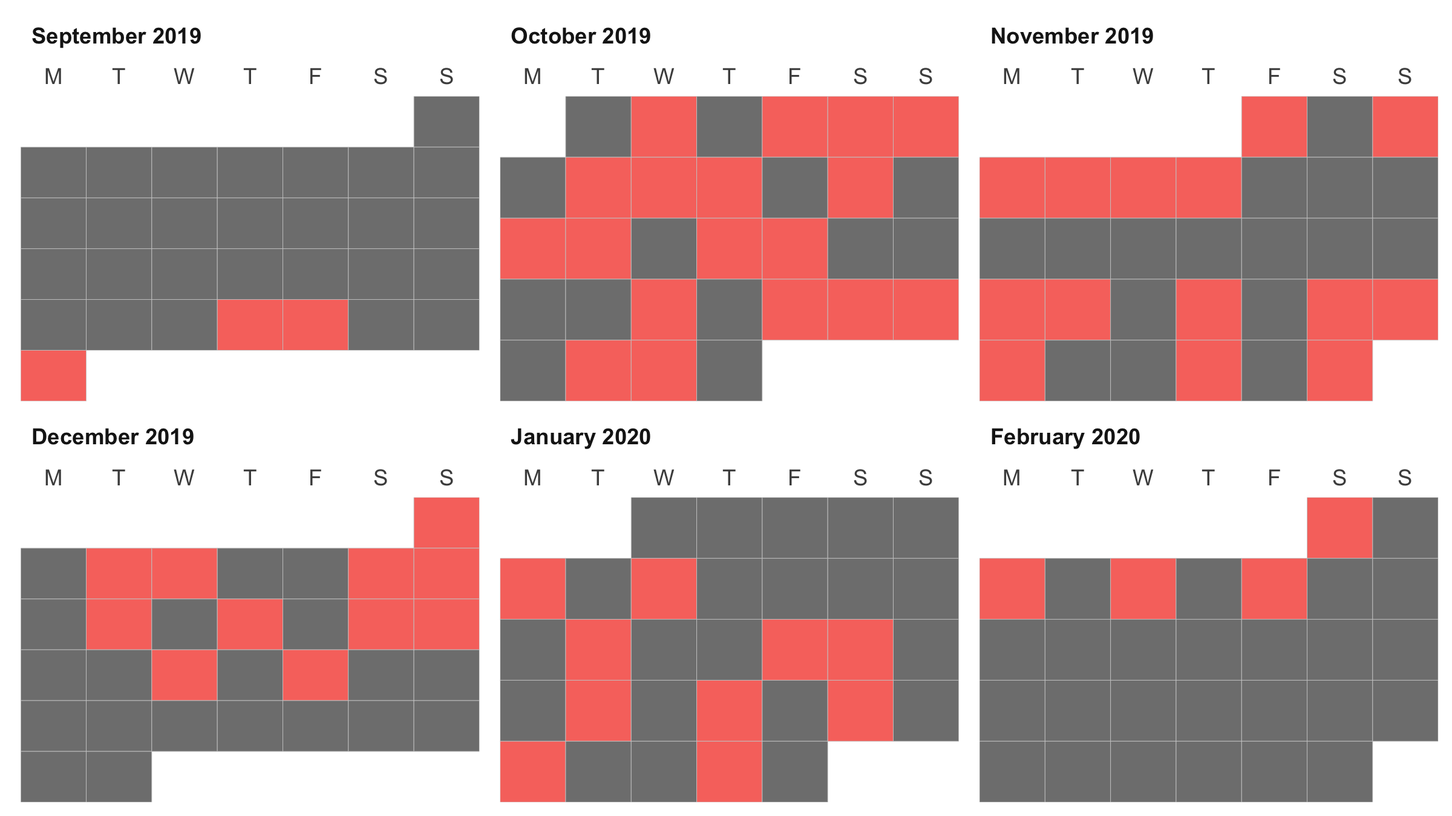
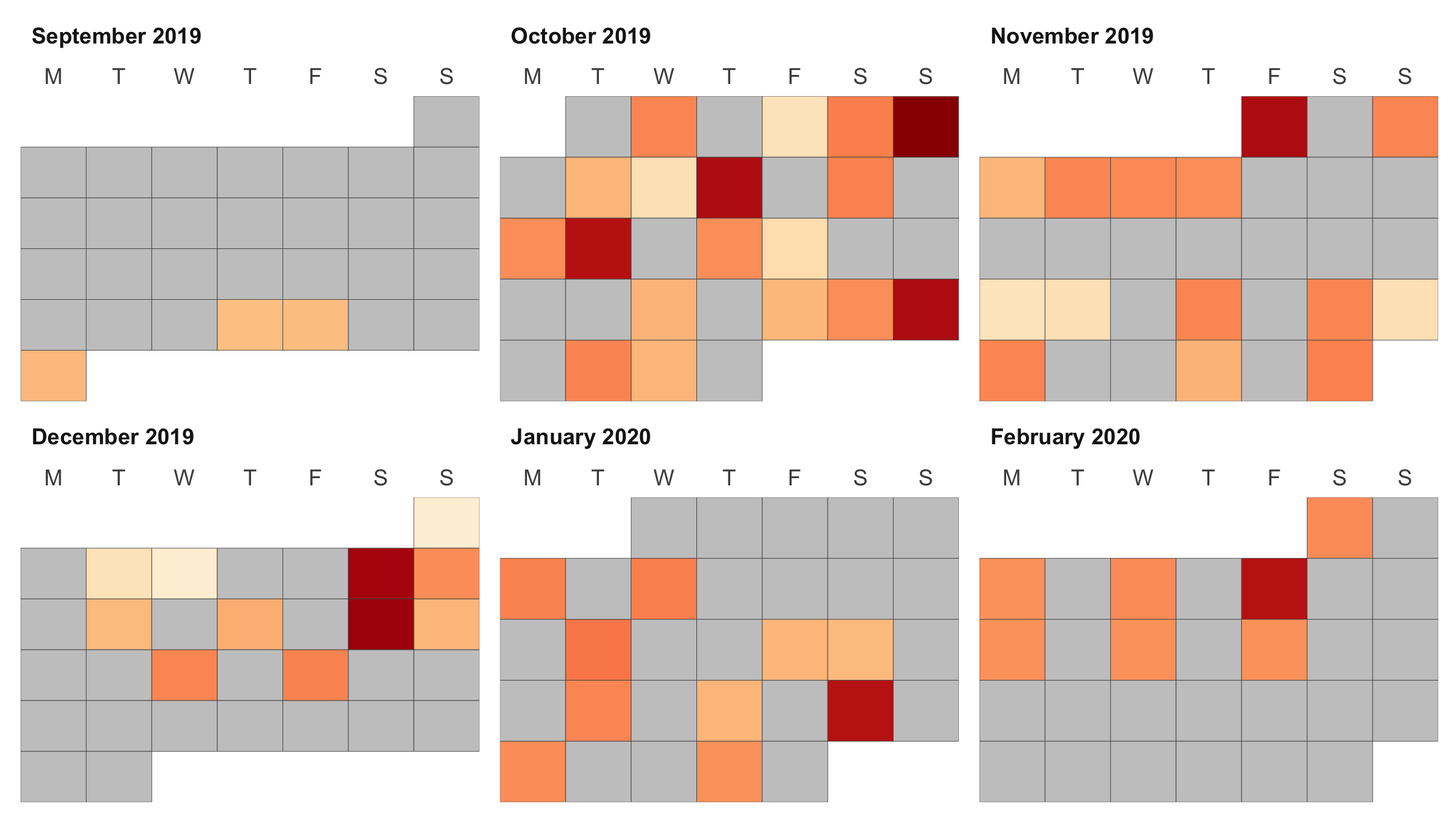
Just do it.

diff --git a/projects/health_data_from_apple_health/index.html b/projects/health_data_from_apple_health/index.html
@@ -81,19 +81,24 @@
           
           <body>
             <div class="article-post">
-              <p>The goal is to visualize health data recorded by a Xiaomi Mi Band (in this case model 4) after syncing it to the Apple Health app and exporting it from there.
-You will receive all the data in a file called <code>export.zip</code>, which, when decompressed, creates two files:</p>
+              <p>The goal is to visualize several types of health data, e.g. recorded by a Xiaomi Mi Band (in this case model 4).</p>
+<h2 id="data-sources">Data sources</h2>
+<p>I collect the following data:</p>
 <ul>
-<li><code>export_cda.xml</code></li>
-<li><code>export.xml</code></li>
+<li>Heart rate (once per minute), steps, and sleep data are collected by a Xiaomi Mi Band 4. The data is synched to the Mi Fit app and from the transferred to and exported from the Apple Health app.</li>
+<li>Workout sessions are recorded by Streaks Workout. The data can be exported to a <code>.csv</code> file from Streaks Workout app itself.</li>
+<li>Running sessions are recorded by Strava. Data can be downloaded from the Strava website as a <code>.gpx</code> file.</li>
 </ul>
 <h2 id="preparation">Preparation</h2>
-<p>Depending on the amount of data that is stored in Apple Health, these files can become quite large.</p>
+<h3 id="load-packages">Load packages</h3>
 <div class="highlight"><pre style="background-color:#fff;-moz-tab-size:2;-o-tab-size:2;tab-size:2"><code class="language-r" data-lang="r"><span style="color:#900;font-weight:bold">library</span>(tidyverse)
 <span style="color:#900;font-weight:bold">library</span>(lubridate)
 <span style="color:#900;font-weight:bold">library</span>(XML)
 <span style="color:#900;font-weight:bold">library</span>(viridis)
-</code></pre></div><p>The data we want to import is stored in the <code>export.xml</code> file, which we will load using the <code>XML::xmlParse()</code> function.
+</code></pre></div><h3 id="load-data">Load data</h3>
+<p>As mentioned before, heart rate, steps and sleep data are synced from the Mi Fi app to Apple Health and from there we export it.
+Depending on the amount of data that is stored in Apple Health, these files can become quite large.
+The data we want to import is stored in the <code>export.xml</code> file, which we will load using the <code>XML::xmlParse()</code> function.
 Then, we transform it into a tibble using the <code>XML::xmlAttrsToDataFrame()</code> function.</p>
 <div class="highlight"><pre style="background-color:#fff;-moz-tab-size:2;-o-tab-size:2;tab-size:2"><code class="language-r" data-lang="r">xml <span style="color:#000;font-weight:bold">&lt;-</span> XML<span style="color:#000;font-weight:bold">::</span><span style="color:#900;font-weight:bold">xmlParse</span>(<span style="color:#d14">&#39;</span><span style="color:#d14">export.xml&#39;</span>)
 data <span style="color:#000;font-weight:bold">&lt;-</span> XML<span style="color:#000;font-weight:bold">:::</span><span style="color:#900;font-weight:bold">xmlAttrsToDataFrame</span>(xml[<span style="color:#d14">&#39;</span><span style="color:#d14">//Record&#39;</span>]) <span style="color:#000;font-weight:bold">%&gt;%</span> <span style="color:#900;font-weight:bold">as_tibble</span>()
@@ -106,7 +111,8 @@ data <span style="color:#000;font-weight:bold">&lt;-</span> XML<span style="colo
     date_and_day <span style="color:#000;font-weight:bold">=</span> <span style="color:#900;font-weight:bold">paste0</span>(date, <span style="color:#d14">&#39;</span><span style="color:#d14"> (&#39;</span>, dayofweek, <span style="color:#d14">&#39;</span><span style="color:#d14">)&#39;</span>)
   )
 </code></pre></div><h2 id="heart-rate">Heart rate</h2>
-<p>My heart rate is recorded once a minute.</p>
+<p>Ideally, my heart rate is recorded once a minute.
+However, there are some missing values because sometimes the band is placed in a way that it can't measure the heart rate.</p>
 <div class="highlight"><pre style="background-color:#fff;-moz-tab-size:2;-o-tab-size:2;tab-size:2"><code class="language-r" data-lang="r">data_heart_rate <span style="color:#000;font-weight:bold">&lt;-</span> data <span style="color:#000;font-weight:bold">%&gt;%</span>
   dplyr<span style="color:#000;font-weight:bold">::</span><span style="color:#900;font-weight:bold">filter</span>(
     type <span style="color:#000;font-weight:bold">==</span> <span style="color:#d14">&#39;</span><span style="color:#d14">HKQuantityTypeIdentifierHeartRate&#39;</span>,
@@ -134,9 +140,6 @@ Workout sessions are marked as grey areas.</p>
     fill <span style="color:#000;font-weight:bold">=</span> <span style="color:#d14">&#34;</span><span style="color:#d14">grey&#34;</span>, alpha <span style="color:#000;font-weight:bold">=</span> <span style="color:#099">0.5</span>
   ) <span style="color:#000;font-weight:bold">+</span>
   <span style="color:#900;font-weight:bold">geom_line</span>(<span style="color:#900;font-weight:bold">aes</span>(x <span style="color:#000;font-weight:bold">=</span> endDate, y <span style="color:#000;font-weight:bold">=</span> value), size <span style="color:#000;font-weight:bold">=</span> <span style="color:#099">0.5</span>, color <span style="color:#000;font-weight:bold">=</span> <span style="color:#d14">&#39;</span><span style="color:#d14">grey&#39;</span>) <span style="color:#000;font-weight:bold">+</span>
-  <span style="color:#900;font-weight:bold">geom_smooth</span>(<span style="color:#900;font-weight:bold">aes</span>(x <span style="color:#000;font-weight:bold">=</span> endDate, y <span style="color:#000;font-weight:bold">=</span> value, color <span style="color:#000;font-weight:bold">=</span> ..y..), method <span style="color:#000;font-weight:bold">=</span> <span style="color:#d14">&#39;</span><span style="color:#d14">gam&#39;</span>, formula <span style="color:#000;font-weight:bold">=</span> y <span style="color:#000;font-weight:bold">~</span> <span style="color:#900;font-weight:bold">s</span>(x, k <span style="color:#000;font-weight:bold">=</span> <span style="color:#099">20</span>), size <span style="color:#000;font-weight:bold">=</span> <span style="color:#099">0.5</span>) <span style="color:#000;font-weight:bold">+</span>
-  <span style="color:#900;font-weight:bold">geom_smooth</span>(<span style="color:#900;font-weight:bold">aes</span>(x <span style="color:#000;font-weight:bold">=</span> endDate, y <span style="color:#000;font-weight:bold">=</span> value, color <span style="color:#000;font-weight:bold">=</span> ..y..), method <span style="color:#000;font-weight:bold">=</span> <span style="color:#d14">&#39;</span><span style="color:#d14">gam&#39;</span>, formula <span style="color:#000;font-weight:bold">=</span> y <span style="color:#000;font-weight:bold">~</span> <span style="color:#900;font-weight:bold">s</span>(x, k <span style="color:#000;font-weight:bold">=</span> <span style="color:#099">50</span>), size <span style="color:#000;font-weight:bold">=</span> <span style="color:#099">0.5</span>) <span style="color:#000;font-weight:bold">+</span>
-  <span style="color:#900;font-weight:bold">geom_smooth</span>(<span style="color:#900;font-weight:bold">aes</span>(x <span style="color:#000;font-weight:bold">=</span> endDate, y <span style="color:#000;font-weight:bold">=</span> value, color <span style="color:#000;font-weight:bold">=</span> ..y..), method <span style="color:#000;font-weight:bold">=</span> <span style="color:#d14">&#39;</span><span style="color:#d14">gam&#39;</span>, formula <span style="color:#000;font-weight:bold">=</span> y <span style="color:#000;font-weight:bold">~</span> <span style="color:#900;font-weight:bold">s</span>(x, k <span style="color:#000;font-weight:bold">=</span> <span style="color:#099">100</span>), size <span style="color:#000;font-weight:bold">=</span> <span style="color:#099">0.5</span>) <span style="color:#000;font-weight:bold">+</span>
   <span style="color:#900;font-weight:bold">geom_point</span>(<span style="color:#900;font-weight:bold">aes</span>(x <span style="color:#000;font-weight:bold">=</span> endDate, y <span style="color:#000;font-weight:bold">=</span> value, color <span style="color:#000;font-weight:bold">=</span> value), size <span style="color:#000;font-weight:bold">=</span> <span style="color:#099">0.5</span>) <span style="color:#000;font-weight:bold">+</span>
   <span style="color:#900;font-weight:bold">scale_color_viridis</span>(option <span style="color:#000;font-weight:bold">=</span> <span style="color:#d14">&#39;</span><span style="color:#d14">magma&#39;</span>, direction <span style="color:#000;font-weight:bold">=</span> <span style="color:#099">-1</span>) <span style="color:#000;font-weight:bold">+</span>
   <span style="color:#900;font-weight:bold">scale_y_continuous</span>(name <span style="color:#000;font-weight:bold">=</span> <span style="color:#d14">&#39;</span><span style="color:#d14">Heart rate [BPM]&#39;</span>, limits <span style="color:#000;font-weight:bold">=</span> <span style="color:#900;font-weight:bold">c</span>(<span style="color:#099">40</span>,<span style="color:#099">160</span>)) <span style="color:#000;font-weight:bold">+</span>
@@ -152,6 +155,39 @@ Workout sessions are marked as grey areas.</p>
 <figure >
   
       <img src="/images/projects/health_data/heart_rate_profile_day.png"  style="width: 100%;" />
+  
+  
+</figure>
+
+
+<p>Some measurements look like outliers.
+We can deal with that by applying a smoothing line with different <code>k</code> parameter to control how sensitive it should be.</p>
+<div class="highlight"><pre style="background-color:#fff;-moz-tab-size:2;-o-tab-size:2;tab-size:2"><code class="language-r" data-lang="r">p <span style="color:#000;font-weight:bold">&lt;-</span> data_heart_rate <span style="color:#000;font-weight:bold">%&gt;%</span>
+  <span style="color:#900;font-weight:bold">filter</span>(date <span style="color:#000;font-weight:bold">%in%</span> <span style="color:#900;font-weight:bold">c</span>(<span style="color:#d14">&#39;</span><span style="color:#d14">2020-01-25&#39;</span>,<span style="color:#d14">&#39;</span><span style="color:#d14">2020-02-07&#39;</span>)) <span style="color:#000;font-weight:bold">%&gt;%</span>
+  <span style="color:#900;font-weight:bold">ggplot</span>() <span style="color:#000;font-weight:bold">+</span>
+  <span style="color:#900;font-weight:bold">geom_rect</span>(
+    data <span style="color:#000;font-weight:bold">=</span> workouts <span style="color:#000;font-weight:bold">%&gt;%</span> <span style="color:#900;font-weight:bold">filter</span>(date <span style="color:#000;font-weight:bold">%in%</span> <span style="color:#900;font-weight:bold">c</span>(<span style="color:#d14">&#39;</span><span style="color:#d14">2020-01-25&#39;</span>,<span style="color:#d14">&#39;</span><span style="color:#d14">2020-02-07&#39;</span>)),
+    <span style="color:#900;font-weight:bold">aes</span>(xmin <span style="color:#000;font-weight:bold">=</span> starting_time, xmax <span style="color:#000;font-weight:bold">=</span> finishing_time, ymin <span style="color:#000;font-weight:bold">=</span> <span style="color:#000;font-weight:bold">-</span><span style="color:#000;font-weight:bold">Inf</span>, ymax <span style="color:#000;font-weight:bold">=</span> <span style="color:#000;font-weight:bold">Inf</span>),
+    fill <span style="color:#000;font-weight:bold">=</span> <span style="color:#d14">&#34;</span><span style="color:#d14">grey&#34;</span>, alpha <span style="color:#000;font-weight:bold">=</span> <span style="color:#099">0.5</span>
+  ) <span style="color:#000;font-weight:bold">+</span>
+  <span style="color:#900;font-weight:bold">geom_point</span>(<span style="color:#900;font-weight:bold">aes</span>(x <span style="color:#000;font-weight:bold">=</span> endDate, y <span style="color:#000;font-weight:bold">=</span> value), color <span style="color:#000;font-weight:bold">=</span> <span style="color:#d14">&#39;</span><span style="color:#d14">grey&#39;</span>, size <span style="color:#000;font-weight:bold">=</span> <span style="color:#099">0.5</span>) <span style="color:#000;font-weight:bold">+</span>
+  <span style="color:#900;font-weight:bold">geom_smooth</span>(<span style="color:#900;font-weight:bold">aes</span>(x <span style="color:#000;font-weight:bold">=</span> endDate, y <span style="color:#000;font-weight:bold">=</span> value, color <span style="color:#000;font-weight:bold">=</span> ..y..), method <span style="color:#000;font-weight:bold">=</span> <span style="color:#d14">&#39;</span><span style="color:#d14">gam&#39;</span>, formula <span style="color:#000;font-weight:bold">=</span> y <span style="color:#000;font-weight:bold">~</span> <span style="color:#900;font-weight:bold">s</span>(x, k <span style="color:#000;font-weight:bold">=</span> <span style="color:#099">20</span>), size <span style="color:#000;font-weight:bold">=</span> <span style="color:#099">1</span>) <span style="color:#000;font-weight:bold">+</span>
+  <span style="color:#900;font-weight:bold">geom_smooth</span>(<span style="color:#900;font-weight:bold">aes</span>(x <span style="color:#000;font-weight:bold">=</span> endDate, y <span style="color:#000;font-weight:bold">=</span> value, color <span style="color:#000;font-weight:bold">=</span> ..y..), method <span style="color:#000;font-weight:bold">=</span> <span style="color:#d14">&#39;</span><span style="color:#d14">gam&#39;</span>, formula <span style="color:#000;font-weight:bold">=</span> y <span style="color:#000;font-weight:bold">~</span> <span style="color:#900;font-weight:bold">s</span>(x, k <span style="color:#000;font-weight:bold">=</span> <span style="color:#099">50</span>), size <span style="color:#000;font-weight:bold">=</span> <span style="color:#099">1</span>) <span style="color:#000;font-weight:bold">+</span>
+  <span style="color:#900;font-weight:bold">geom_smooth</span>(<span style="color:#900;font-weight:bold">aes</span>(x <span style="color:#000;font-weight:bold">=</span> endDate, y <span style="color:#000;font-weight:bold">=</span> value, color <span style="color:#000;font-weight:bold">=</span> ..y..), method <span style="color:#000;font-weight:bold">=</span> <span style="color:#d14">&#39;</span><span style="color:#d14">gam&#39;</span>, formula <span style="color:#000;font-weight:bold">=</span> y <span style="color:#000;font-weight:bold">~</span> <span style="color:#900;font-weight:bold">s</span>(x, k <span style="color:#000;font-weight:bold">=</span> <span style="color:#099">100</span>), size <span style="color:#000;font-weight:bold">=</span> <span style="color:#099">1</span>) <span style="color:#000;font-weight:bold">+</span>
+  <span style="color:#900;font-weight:bold">scale_color_viridis</span>(option <span style="color:#000;font-weight:bold">=</span> <span style="color:#d14">&#39;</span><span style="color:#d14">magma&#39;</span>, direction <span style="color:#000;font-weight:bold">=</span> <span style="color:#099">-1</span>) <span style="color:#000;font-weight:bold">+</span>
+  <span style="color:#900;font-weight:bold">scale_y_continuous</span>(name <span style="color:#000;font-weight:bold">=</span> <span style="color:#d14">&#39;</span><span style="color:#d14">Heart rate [BPM]&#39;</span>, limits <span style="color:#000;font-weight:bold">=</span> <span style="color:#900;font-weight:bold">c</span>(<span style="color:#099">40</span>,<span style="color:#099">160</span>)) <span style="color:#000;font-weight:bold">+</span>
+  <span style="color:#900;font-weight:bold">theme_bw</span>() <span style="color:#000;font-weight:bold">+</span>
+  <span style="color:#900;font-weight:bold">theme</span>(
+    axis.title.x <span style="color:#000;font-weight:bold">=</span> <span style="color:#900;font-weight:bold">element_blank</span>(),
+    legend.position <span style="color:#000;font-weight:bold">=</span> <span style="color:#d14">&#39;</span><span style="color:#d14">none&#39;</span>,
+    strip.text.x <span style="color:#000;font-weight:bold">=</span> <span style="color:#900;font-weight:bold">element_text</span>(face <span style="color:#000;font-weight:bold">=</span> <span style="color:#d14">&#39;</span><span style="color:#d14">bold&#39;</span>)
+  ) <span style="color:#000;font-weight:bold">+</span>
+  <span style="color:#900;font-weight:bold">facet_wrap</span>(<span style="color:#000;font-weight:bold">~</span>date_and_day, ncol <span style="color:#000;font-weight:bold">=</span> <span style="color:#099">1</span>, scales <span style="color:#000;font-weight:bold">=</span> <span style="color:#d14">&#39;</span><span style="color:#d14">free_x&#39;</span>)
+<span style="color:#900;font-weight:bold">ggsave</span>(<span style="color:#d14">&#39;</span><span style="color:#d14">heart_rate_profile_day_smooth.png&#39;</span>, p, height <span style="color:#000;font-weight:bold">=</span> <span style="color:#099">7</span>, width <span style="color:#000;font-weight:bold">=</span> <span style="color:#099">8</span>)
+</code></pre></div>
+<figure >
+  
+      <img src="/images/projects/health_data/heart_rate_profile_day_smooth.png"  style="width: 100%;" />
   
   
 </figure>
@@ -372,18 +408,18 @@ data_sleep<span style="color:#000;font-weight:bold">$</span>night <span style="c
 <h2 id="workouts">Workouts</h2>
 <h3 id="calendar">Calendar</h3>
 <p>To plot highlight the days we worked in calendar style, we take advantage of the <code>ggcal()</code> function made by <a href="https://github.com/jayjacobs/ggcal"><code>jayjaycobs</code></a>.
-However, since we don't live in crazyland (no offense), we will adjust it so that the week starts on Monday.</p>
+However, we slightly modify it, e.g. so that the week starts on Monday instead of Sunday.</p>
 <div class="highlight"><pre style="background-color:#fff;-moz-tab-size:2;-o-tab-size:2;tab-size:2"><code class="language-r" data-lang="r">ggcal <span style="color:#000;font-weight:bold">&lt;-</span> <span style="color:#900;font-weight:bold">function</span>(dates, fills) {
-  months <span style="color:#000;font-weight:bold">&lt;-</span> <span style="color:#900;font-weight:bold">format</span>(<span style="color:#900;font-weight:bold">seq</span>(<span style="color:#900;font-weight:bold">as.Date</span>(<span style="color:#d14">&#34;</span><span style="color:#d14">2016-01-01&#34;</span>), <span style="color:#900;font-weight:bold">as.Date</span>(<span style="color:#d14">&#34;</span><span style="color:#d14">2016-12-01&#34;</span>), by <span style="color:#000;font-weight:bold">=</span> <span style="color:#d14">&#34;</span><span style="color:#d14">1 month&#34;</span>), <span style="color:#d14">&#34;</span><span style="color:#d14">%B&#34;</span>)
-  mindate <span style="color:#000;font-weight:bold">&lt;-</span> <span style="color:#900;font-weight:bold">as.Date</span>(<span style="color:#900;font-weight:bold">format</span>(<span style="color:#900;font-weight:bold">min</span>(dates), <span style="color:#d14">&#34;</span><span style="color:#d14">%Y-%m-01&#34;</span>))
-  maxdate <span style="color:#000;font-weight:bold">&lt;-</span> (<span style="color:#900;font-weight:bold">seq</span>(<span style="color:#900;font-weight:bold">as.Date</span>(<span style="color:#900;font-weight:bold">format</span>(<span style="color:#900;font-weight:bold">max</span>(dates), <span style="color:#d14">&#34;</span><span style="color:#d14">%Y-%m-01&#34;</span>)), length.out <span style="color:#000;font-weight:bold">=</span> <span style="color:#099">2</span>, by <span style="color:#000;font-weight:bold">=</span> <span style="color:#d14">&#34;</span><span style="color:#d14">1 month&#34;</span>) <span style="color:#000;font-weight:bold">-</span> <span style="color:#099">1</span>)[2]
-  filler <span style="color:#000;font-weight:bold">&lt;-</span> <span style="color:#900;font-weight:bold">tibble</span>(date <span style="color:#000;font-weight:bold">=</span> <span style="color:#900;font-weight:bold">seq</span>(mindate, maxdate, by <span style="color:#000;font-weight:bold">=</span> <span style="color:#d14">&#34;</span><span style="color:#d14">1 day&#34;</span>))
+  months <span style="color:#000;font-weight:bold">&lt;-</span> <span style="color:#900;font-weight:bold">format</span>(<span style="color:#900;font-weight:bold">seq</span>(<span style="color:#900;font-weight:bold">as.Date</span>(<span style="color:#d14">&#39;</span><span style="color:#d14">2016-01-01&#39;</span>), <span style="color:#900;font-weight:bold">as.Date</span>(<span style="color:#d14">&#39;</span><span style="color:#d14">2016-12-01&#39;</span>), by <span style="color:#000;font-weight:bold">=</span> <span style="color:#d14">&#39;</span><span style="color:#d14">1 month&#39;</span>), <span style="color:#d14">&#39;</span><span style="color:#d14">%B&#39;</span>)
+  mindate <span style="color:#000;font-weight:bold">&lt;-</span> <span style="color:#900;font-weight:bold">as.Date</span>(<span style="color:#900;font-weight:bold">format</span>(<span style="color:#900;font-weight:bold">min</span>(dates), <span style="color:#d14">&#39;</span><span style="color:#d14">%Y-%m-01&#39;</span>))
+  maxdate <span style="color:#000;font-weight:bold">&lt;-</span> (<span style="color:#900;font-weight:bold">seq</span>(<span style="color:#900;font-weight:bold">as.Date</span>(<span style="color:#900;font-weight:bold">format</span>(<span style="color:#900;font-weight:bold">max</span>(dates), <span style="color:#d14">&#39;</span><span style="color:#d14">%Y-%m-01&#39;</span>)), length.out <span style="color:#000;font-weight:bold">=</span> <span style="color:#099">2</span>, by <span style="color:#000;font-weight:bold">=</span> <span style="color:#d14">&#39;</span><span style="color:#d14">1 month&#39;</span>) <span style="color:#000;font-weight:bold">-</span> <span style="color:#099">1</span>)[2]
+  filler <span style="color:#000;font-weight:bold">&lt;-</span> <span style="color:#900;font-weight:bold">tibble</span>(date <span style="color:#000;font-weight:bold">=</span> <span style="color:#900;font-weight:bold">seq</span>(mindate, maxdate, by <span style="color:#000;font-weight:bold">=</span> <span style="color:#d14">&#39;</span><span style="color:#d14">1 day&#39;</span>))
   t1 <span style="color:#000;font-weight:bold">&lt;-</span> <span style="color:#900;font-weight:bold">tibble</span>(date <span style="color:#000;font-weight:bold">=</span> dates, fill <span style="color:#000;font-weight:bold">=</span> fills) <span style="color:#000;font-weight:bold">%&gt;%</span>
-    <span style="color:#900;font-weight:bold">right_join</span>(filler, by <span style="color:#000;font-weight:bold">=</span> <span style="color:#d14">&#34;</span><span style="color:#d14">date&#34;</span>) <span style="color:#000;font-weight:bold">%&gt;%</span>
-    <span style="color:#900;font-weight:bold">mutate</span>(dow <span style="color:#000;font-weight:bold">=</span> <span style="color:#900;font-weight:bold">as.numeric</span>(<span style="color:#900;font-weight:bold">strftime</span>(<span style="color:#900;font-weight:bold">as.Date</span>(date, <span style="color:#d14">&#34;</span><span style="color:#d14">%Y-%m-%d&#34;</span>), <span style="color:#d14">&#34;</span><span style="color:#d14">%u&#34;</span>))) <span style="color:#000;font-weight:bold">%&gt;%</span>
-    <span style="color:#900;font-weight:bold">mutate</span>(month <span style="color:#000;font-weight:bold">=</span> <span style="color:#900;font-weight:bold">format</span>(date, <span style="color:#d14">&#34;</span><span style="color:#d14">%B&#34;</span>)) <span style="color:#000;font-weight:bold">%&gt;%</span>
-    <span style="color:#900;font-weight:bold">mutate</span>(woy <span style="color:#000;font-weight:bold">=</span> <span style="color:#900;font-weight:bold">as.numeric</span>(<span style="color:#900;font-weight:bold">format</span>(date, <span style="color:#d14">&#34;</span><span style="color:#d14">%W&#34;</span>))) <span style="color:#000;font-weight:bold">%&gt;%</span>
-    <span style="color:#900;font-weight:bold">mutate</span>(year <span style="color:#000;font-weight:bold">=</span> <span style="color:#900;font-weight:bold">as.numeric</span>(<span style="color:#900;font-weight:bold">format</span>(date, <span style="color:#d14">&#34;</span><span style="color:#d14">%Y&#34;</span>))) <span style="color:#000;font-weight:bold">%&gt;%</span>
+    <span style="color:#900;font-weight:bold">right_join</span>(filler, by <span style="color:#000;font-weight:bold">=</span> <span style="color:#d14">&#39;</span><span style="color:#d14">date&#39;</span>) <span style="color:#000;font-weight:bold">%&gt;%</span>
+    <span style="color:#900;font-weight:bold">mutate</span>(dow <span style="color:#000;font-weight:bold">=</span> <span style="color:#900;font-weight:bold">as.numeric</span>(<span style="color:#900;font-weight:bold">strftime</span>(<span style="color:#900;font-weight:bold">as.Date</span>(date, <span style="color:#d14">&#39;</span><span style="color:#d14">%Y-%m-%d&#39;</span>), <span style="color:#d14">&#39;</span><span style="color:#d14">%u&#39;</span>))) <span style="color:#000;font-weight:bold">%&gt;%</span>
+    <span style="color:#900;font-weight:bold">mutate</span>(month <span style="color:#000;font-weight:bold">=</span> <span style="color:#900;font-weight:bold">format</span>(date, <span style="color:#d14">&#39;</span><span style="color:#d14">%B&#39;</span>)) <span style="color:#000;font-weight:bold">%&gt;%</span>
+    <span style="color:#900;font-weight:bold">mutate</span>(woy <span style="color:#000;font-weight:bold">=</span> <span style="color:#900;font-weight:bold">as.numeric</span>(<span style="color:#900;font-weight:bold">format</span>(date, <span style="color:#d14">&#39;</span><span style="color:#d14">%W&#39;</span>))) <span style="color:#000;font-weight:bold">%&gt;%</span>
+    <span style="color:#900;font-weight:bold">mutate</span>(year <span style="color:#000;font-weight:bold">=</span> <span style="color:#900;font-weight:bold">as.numeric</span>(<span style="color:#900;font-weight:bold">format</span>(date, <span style="color:#d14">&#39;</span><span style="color:#d14">%Y&#39;</span>))) <span style="color:#000;font-weight:bold">%&gt;%</span>
     <span style="color:#900;font-weight:bold">mutate</span>(month <span style="color:#000;font-weight:bold">=</span> <span style="color:#900;font-weight:bold">factor</span>(month, levels <span style="color:#000;font-weight:bold">=</span> months, ordered <span style="color:#000;font-weight:bold">=</span> <span style="color:#000;font-weight:bold">TRUE</span>)) <span style="color:#000;font-weight:bold">%&gt;%</span>
     <span style="color:#900;font-weight:bold">arrange</span>(year, month) <span style="color:#000;font-weight:bold">%&gt;%</span>
     <span style="color:#900;font-weight:bold">mutate</span>(monlabel <span style="color:#000;font-weight:bold">=</span> month)
@@ -394,27 +430,35 @@ However, since we don't live in crazyland (no offense), we will adjust it so tha
     <span style="color:#900;font-weight:bold">mutate</span>(monlabel <span style="color:#000;font-weight:bold">=</span> <span style="color:#900;font-weight:bold">factor</span>(monlabel, ordered <span style="color:#000;font-weight:bold">=</span> <span style="color:#000;font-weight:bold">TRUE</span>)) <span style="color:#000;font-weight:bold">%&gt;%</span>
     <span style="color:#900;font-weight:bold">mutate</span>(monlabel <span style="color:#000;font-weight:bold">=</span> <span style="color:#900;font-weight:bold">fct_inorder</span>(monlabel)) <span style="color:#000;font-weight:bold">%&gt;%</span>
     <span style="color:#900;font-weight:bold">mutate</span>(monthweek <span style="color:#000;font-weight:bold">=</span> woy <span style="color:#000;font-weight:bold">-</span> <span style="color:#900;font-weight:bold">min</span>(woy), y <span style="color:#000;font-weight:bold">=</span> <span style="color:#900;font-weight:bold">max</span>(monthweek) <span style="color:#000;font-weight:bold">-</span> monthweek <span style="color:#000;font-weight:bold">+</span> <span style="color:#099">1</span>)
-  weekdays <span style="color:#000;font-weight:bold">&lt;-</span> <span style="color:#900;font-weight:bold">c</span>(<span style="color:#d14">&#34;</span><span style="color:#d14">M&#34;</span>, <span style="color:#d14">&#34;</span><span style="color:#d14">T&#34;</span>, <span style="color:#d14">&#34;</span><span style="color:#d14">W&#34;</span>, <span style="color:#d14">&#34;</span><span style="color:#d14">T&#34;</span>, <span style="color:#d14">&#34;</span><span style="color:#d14">F&#34;</span>, <span style="color:#d14">&#34;</span><span style="color:#d14">S&#34;</span>, <span style="color:#d14">&#34;</span><span style="color:#d14">S&#34;</span>)
+  weekdays <span style="color:#000;font-weight:bold">&lt;-</span> <span style="color:#900;font-weight:bold">c</span>(<span style="color:#d14">&#39;</span><span style="color:#d14">M&#39;</span>, <span style="color:#d14">&#39;</span><span style="color:#d14">T&#39;</span>, <span style="color:#d14">&#39;</span><span style="color:#d14">W&#39;</span>, <span style="color:#d14">&#39;</span><span style="color:#d14">T&#39;</span>, <span style="color:#d14">&#39;</span><span style="color:#d14">F&#39;</span>, <span style="color:#d14">&#39;</span><span style="color:#d14">S&#39;</span>, <span style="color:#d14">&#39;</span><span style="color:#d14">S&#39;</span>)
+  
+  <span style="color:#900;font-weight:bold">if </span>( <span style="color:#900;font-weight:bold">is.numeric</span>(fills) ) {
+    fill_scale <span style="color:#000;font-weight:bold">&lt;-</span> <span style="color:#900;font-weight:bold">scale_fill_distiller</span>(palette <span style="color:#000;font-weight:bold">=</span> <span style="color:#d14">&#39;</span><span style="color:#d14">OrRd&#39;</span>, direction <span style="color:#000;font-weight:bold">=</span> <span style="color:#099">1</span>, na.value <span style="color:#000;font-weight:bold">=</span> <span style="color:#d14">&#39;</span><span style="color:#d14">#C8C8C8&#39;</span>)
+  } else <span style="color:#900;font-weight:bold">if </span>( <span style="color:#900;font-weight:bold">is.character</span>(fills) <span style="color:#000;font-weight:bold">|</span> <span style="color:#900;font-weight:bold">is.factor</span>(fills) ) {
+    fill_scale <span style="color:#000;font-weight:bold">&lt;-</span> <span style="color:#000;font-weight:bold">NULL</span>
+  }
+  
   <span style="color:#900;font-weight:bold">ggplot</span>(t2, <span style="color:#900;font-weight:bold">aes</span>(dow, y, fill <span style="color:#000;font-weight:bold">=</span> fill)) <span style="color:#000;font-weight:bold">+</span>
-    <span style="color:#900;font-weight:bold">geom_tile</span>(color <span style="color:#000;font-weight:bold">=</span> <span style="color:#d14">&#34;</span><span style="color:#d14">gray80&#34;</span>, show.legend <span style="color:#000;font-weight:bold">=</span> <span style="color:#000;font-weight:bold">FALSE</span>) <span style="color:#000;font-weight:bold">+</span>
-    <span style="color:#900;font-weight:bold">facet_wrap</span>(<span style="color:#000;font-weight:bold">~</span>monlabel, ncol <span style="color:#000;font-weight:bold">=</span> <span style="color:#099">3</span>, scales <span style="color:#000;font-weight:bold">=</span> <span style="color:#d14">&#34;</span><span style="color:#d14">free&#34;</span>) <span style="color:#000;font-weight:bold">+</span>
-    <span style="color:#900;font-weight:bold">scale_x_continuous</span>(expand <span style="color:#000;font-weight:bold">=</span> <span style="color:#900;font-weight:bold">c</span>(<span style="color:#099">0</span>, <span style="color:#099">0</span>), position <span style="color:#000;font-weight:bold">=</span> <span style="color:#d14">&#34;</span><span style="color:#d14">top&#34;</span>, breaks <span style="color:#000;font-weight:bold">=</span> <span style="color:#900;font-weight:bold">seq</span>(<span style="color:#099">1</span>, <span style="color:#099">7</span>), labels <span style="color:#000;font-weight:bold">=</span> weekdays) <span style="color:#000;font-weight:bold">+</span>
+    <span style="color:#900;font-weight:bold">geom_tile</span>(color <span style="color:#000;font-weight:bold">=</span> <span style="color:#d14">&#39;</span><span style="color:#d14">#505050&#39;</span>, show.legend <span style="color:#000;font-weight:bold">=</span> <span style="color:#000;font-weight:bold">FALSE</span>) <span style="color:#000;font-weight:bold">+</span>
+    <span style="color:#900;font-weight:bold">facet_wrap</span>(<span style="color:#000;font-weight:bold">~</span>monlabel, ncol <span style="color:#000;font-weight:bold">=</span> <span style="color:#099">3</span>, scales <span style="color:#000;font-weight:bold">=</span> <span style="color:#d14">&#39;</span><span style="color:#d14">free&#39;</span>) <span style="color:#000;font-weight:bold">+</span>
+    <span style="color:#900;font-weight:bold">scale_x_continuous</span>(expand <span style="color:#000;font-weight:bold">=</span> <span style="color:#900;font-weight:bold">c</span>(<span style="color:#099">0</span>, <span style="color:#099">0</span>), position <span style="color:#000;font-weight:bold">=</span> <span style="color:#d14">&#39;</span><span style="color:#d14">top&#39;</span>, breaks <span style="color:#000;font-weight:bold">=</span> <span style="color:#900;font-weight:bold">seq</span>(<span style="color:#099">1</span>, <span style="color:#099">7</span>), labels <span style="color:#000;font-weight:bold">=</span> weekdays) <span style="color:#000;font-weight:bold">+</span>
     <span style="color:#900;font-weight:bold">scale_y_continuous</span>(expand <span style="color:#000;font-weight:bold">=</span> <span style="color:#900;font-weight:bold">c</span>(<span style="color:#099">0</span>, <span style="color:#099">0</span>)) <span style="color:#000;font-weight:bold">+</span>
+    fill_scale <span style="color:#000;font-weight:bold">+</span>
     <span style="color:#900;font-weight:bold">theme</span>(
       panel.background <span style="color:#000;font-weight:bold">=</span> <span style="color:#900;font-weight:bold">element_rect</span>(fill <span style="color:#000;font-weight:bold">=</span> <span style="color:#000;font-weight:bold">NA</span>, color <span style="color:#000;font-weight:bold">=</span> <span style="color:#000;font-weight:bold">NA</span>),
       strip.background <span style="color:#000;font-weight:bold">=</span> <span style="color:#900;font-weight:bold">element_rect</span>(fill <span style="color:#000;font-weight:bold">=</span> <span style="color:#000;font-weight:bold">NA</span>, color <span style="color:#000;font-weight:bold">=</span> <span style="color:#000;font-weight:bold">NA</span>),
-      strip.text.x <span style="color:#000;font-weight:bold">=</span> <span style="color:#900;font-weight:bold">element_text</span>(hjust <span style="color:#000;font-weight:bold">=</span> <span style="color:#099">0</span>, face <span style="color:#000;font-weight:bold">=</span> <span style="color:#d14">&#34;</span><span style="color:#d14">bold&#34;</span>),
+      strip.text.x <span style="color:#000;font-weight:bold">=</span> <span style="color:#900;font-weight:bold">element_text</span>(hjust <span style="color:#000;font-weight:bold">=</span> <span style="color:#099">0</span>, face <span style="color:#000;font-weight:bold">=</span> <span style="color:#d14">&#39;</span><span style="color:#d14">bold&#39;</span>),
       legend.title <span style="color:#000;font-weight:bold">=</span> <span style="color:#900;font-weight:bold">element_blank</span>(),
       axis.ticks <span style="color:#000;font-weight:bold">=</span> <span style="color:#900;font-weight:bold">element_blank</span>(),
       axis.title <span style="color:#000;font-weight:bold">=</span> <span style="color:#900;font-weight:bold">element_blank</span>(),
       axis.text.y <span style="color:#000;font-weight:bold">=</span> <span style="color:#900;font-weight:bold">element_blank</span>(),
-      strip.placement <span style="color:#000;font-weight:bold">=</span> <span style="color:#d14">&#34;</span><span style="color:#d14">outsite&#34;</span>
+      strip.placement <span style="color:#000;font-weight:bold">=</span> <span style="color:#d14">&#39;</span><span style="color:#d14">outside&#39;</span>
     )
 }
 
 p <span style="color:#000;font-weight:bold">&lt;-</span> <span style="color:#900;font-weight:bold">ggcal</span>(
   workouts<span style="color:#000;font-weight:bold">$</span>starting_time <span style="color:#000;font-weight:bold">%&gt;%</span> <span style="color:#900;font-weight:bold">as.Date</span>(),
-  <span style="color:#900;font-weight:bold">rep</span>(<span style="color:#d14">&#39;</span><span style="color:#d14">black&#39;</span>, <span style="color:#900;font-weight:bold">length</span>(workouts<span style="color:#000;font-weight:bold">$</span>starting_time))
+  workouts <span style="color:#000;font-weight:bold">%&gt;%</span> <span style="color:#900;font-weight:bold">mutate</span>(length <span style="color:#000;font-weight:bold">=</span> finishing_time <span style="color:#000;font-weight:bold">-</span> starting_time) <span style="color:#000;font-weight:bold">%&gt;%</span> <span style="color:#900;font-weight:bold">pull</span>(length) <span style="color:#000;font-weight:bold">%&gt;%</span> <span style="color:#900;font-weight:bold">as.numeric</span>()
 )
 <span style="color:#900;font-weight:bold">ggsave</span>(<span style="color:#d14">&#39;</span><span style="color:#d14">workouts_calendar.png&#39;</span>, p, height <span style="color:#000;font-weight:bold">=</span> <span style="color:#099">4.5</span>, width <span style="color:#000;font-weight:bold">=</span> <span style="color:#099">8</span>)
 </code></pre></div>
@@ -426,11 +470,12 @@ p <span style="color:#000;font-weight:bold">&lt;-</span> <span style="color:#900
 </figure>
 
 
+<p>Color reflects the workout length.</p>
 <h2 id="to-do">To do</h2>
 <ul>
 <li>Heart rate
 <ul>
-<li>Removal of outlier/incorrect measurement.</li>
+<li>Removal of outliers/incorrect measurements.</li>
 </ul>
 </li>
 <li>Sleep
@@ -442,6 +487,11 @@ p <span style="color:#000;font-weight:bold">&lt;-</span> <span style="color:#900
 <li>Steps
 <ul>
 <li>Profile of steps over time, accumulated and colored by day.</li>
+</ul>
+</li>
+<li>Running sessions
+<ul>
+<li>Add chapter.</li>
 </ul>
 </li>
 <li>More

diff --git a/plots/heatmap/1/index.html b/plots/heatmap/1/index.html
@@ -112,7 +112,7 @@ average_expression_profiles_by_cluster <span style="color:#000;font-weight:bold"
   <span style="color:#900;font-weight:bold">mutate</span>(cluster <span style="color:#000;font-weight:bold">=</span> seurat<span style="color:#000;font-weight:bold">@</span>meta.data<span style="color:#000;font-weight:bold">$</span>seurat_clusters) <span style="color:#000;font-weight:bold">%&gt;%</span>
   <span style="color:#900;font-weight:bold">select</span>(cluster, <span style="color:#900;font-weight:bold">everything</span>()) <span style="color:#000;font-weight:bold">%&gt;%</span>
   <span style="color:#900;font-weight:bold">group_by</span>(cluster) <span style="color:#000;font-weight:bold">%&gt;%</span>
-  <span style="color:#900;font-weight:bold">summarize_all</span>(<span style="color:#900;font-weight:bold">funs</span>(mean))
+  <span style="color:#900;font-weight:bold">summarize_all</span>(<span style="color:#000;font-weight:bold">~</span><span style="color:#900;font-weight:bold">mean</span>(.))
 
 <span style="color:#998;font-style:italic"># calculate Spearman correlation matrix</span>
 correlation_matrix <span style="color:#000;font-weight:bold">&lt;-</span> average_expression_profiles_by_cluster <span style="color:#000;font-weight:bold">%&gt;%</span>
